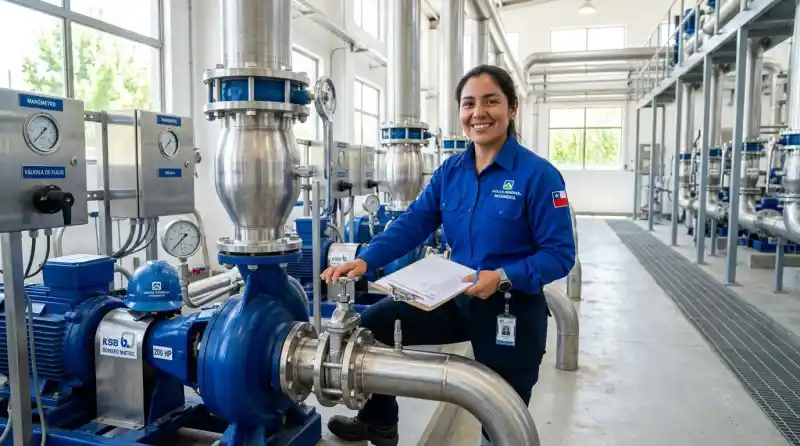
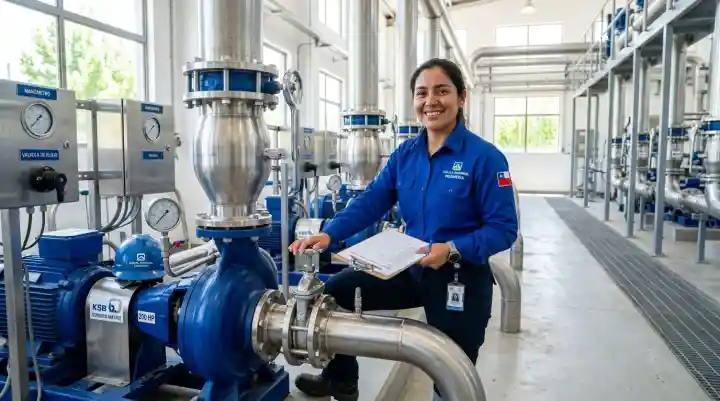
perf(pagespeed): strict picture elements with 5.5KB mobile hero image and ultra-lightweight alpine members dataset

diff --git a/resources/views/home.blade.php b/resources/views/home.blade.php
@@ -23,20 +23,22 @@
 <section class="relative overflow-hidden bg-slate-950 text-white pt-12 pb-20 lg:pt-20 lg:pb-28" x-data="secVerificationApp">
     
     <!-- Hero Background Image Slider Carousel (Vibrant, Clear & Human) -->
-    <div class="absolute inset-0 z-0 pointer-events-none" x-data="{ currentSlide: 0 }" x-init="setInterval(() => { currentSlide = (currentSlide + 1) % 3 }, 5000)">
-        <!-- Slide 1: Gas SEC Technician (LCP - Immediate Paint with Responsive srcset) -->
+    <div class="absolute inset-0 z-0 pointer-events-none" x-data="{ currentSlide: 0 }" x-init="setInterval(() => { currentSlide = (currentSlide + 1) % 3 }, 6000)">
+        <!-- Slide 1: Gas SEC Technician (LCP - Immediate Paint with Strict Picture) -->
         <div class="absolute inset-0 transition-opacity duration-1000 ease-in-out opacity-85 overflow-hidden"
              :class="{ 'opacity-85 scale-105': currentSlide === 0, 'opacity-0 scale-100': currentSlide !== 0 }"
              style="transition: opacity 1.5s ease-in-out, transform 8s ease-out;">
-            <img src="{{ asset('images/slider/hero_gas_mobile.webp') }}"
-                 srcset="{{ asset('images/slider/hero_gas_mobile.webp') }} 440w, {{ asset('images/slider/hero_gas.webp') }} 800w"
-                 sizes="(max-width: 640px) 100vw, 800px"
-                 alt="Profesionales Gas SEC Acreditados"
-                 fetchpriority="high"
-                 loading="eager"
-                 width="800"
-                 height="446"
-                 class="w-full h-full object-cover">
+            <picture>
+                <source media="(max-width: 640px)" srcset="{{ asset('images/slider/hero_gas_mobile.webp') }}">
+                <source media="(min-width: 641px)" srcset="{{ asset('images/slider/hero_gas.webp') }}">
+                <img src="{{ asset('images/slider/hero_gas_mobile.webp') }}"
+                     alt="Profesionales Gas SEC Acreditados"
+                     fetchpriority="high"
+                     loading="eager"
+                     width="720"
+                     height="401"
+                     class="w-full h-full object-cover">
+            </picture>
         </div>
 
         <!-- Slide 2: Agua & Sanitario Engineer (Deferred strictly until slide 2 triggers) -->
@@ -44,14 +46,16 @@
              :class="{ 'opacity-85 scale-105': currentSlide === 1, 'opacity-0 scale-100': currentSlide !== 1 }"
              style="transition: opacity 1.5s ease-in-out, transform 8s ease-out;">
             <template x-if="currentSlide === 1 || currentSlide === 2">
-                <img src="{{ asset('images/slider/hero_water_mobile.webp') }}"
-                     srcset="{{ asset('images/slider/hero_water_mobile.webp') }} 440w, {{ asset('images/slider/hero_water.webp') }} 800w"
-                     sizes="(max-width: 640px) 100vw, 800px"
-                     alt="Ingeniería y Servicios Sanitarios"
-                     loading="lazy"
-                     width="800"
-                     height="446"
-                     class="w-full h-full object-cover">
+                <picture>
+                    <source media="(max-width: 640px)" srcset="{{ asset('images/slider/hero_water_mobile.webp') }}">
+                    <source media="(min-width: 641px)" srcset="{{ asset('images/slider/hero_water.webp') }}">
+                    <img src="{{ asset('images/slider/hero_water_mobile.webp') }}"
+                         alt="Ingeniería y Servicios Sanitarios"
+                         loading="lazy"
+                         width="720"
+                         height="401"
+                         class="w-full h-full object-cover">
+                </picture>
             </template>
         </div>
 
@@ -60,14 +64,16 @@
              :class="{ 'opacity-85 scale-105': currentSlide === 2, 'opacity-0 scale-100': currentSlide !== 2 }"
              style="transition: opacity 1.5s ease-in-out, transform 8s ease-out;">
             <template x-if="currentSlide === 2">
-                <img src="{{ asset('images/slider/hero_solar_mobile.webp') }}"
-                     srcset="{{ asset('images/slider/hero_solar_mobile.webp') }} 440w, {{ asset('images/slider/hero_solar.webp') }} 800w"
-                     sizes="(max-width: 640px) 100vw, 800px"
-                     alt="Energías Renovables y Solar"
-                     loading="lazy"
-                     width="800"
-                     height="446"
-                     class="w-full h-full object-cover">
+                <picture>
+                    <source media="(max-width: 640px)" srcset="{{ asset('images/slider/hero_solar_mobile.webp') }}">
+                    <source media="(min-width: 641px)" srcset="{{ asset('images/slider/hero_solar.webp') }}">
+                    <img src="{{ asset('images/slider/hero_solar_mobile.webp') }}"
+                         alt="Energías Renovables y Solar"
+                         loading="lazy"
+                         width="720"
+                         height="401"
+                         class="w-full h-full object-cover">
+                </picture>
             </template>
         </div>
 
@@ -649,7 +655,7 @@
         Alpine.data('secVerificationApp', () => ({
             secQuery: '',
             verifiedMember: null,
-            members: @json($members),
+            members: @json($membersSearch ?? []),
             verifySec() {
                 const query = this.secQuery.trim().toLowerCase();
                 if (!query) {

diff --git a/app/Http/Controllers/HomeController.php b/app/Http/Controllers/HomeController.php
@@ -18,6 +18,19 @@ class HomeController extends Controller
             ->orderBy('id', 'asc')
             ->get();
 
+        $membersSearch = $members->map(fn($m) => [
+            'id' => $m->id,
+            'full_name' => $m->full_name,
+            'rut' => $m->rut,
+            'sec_licence' => $m->sec_licence,
+            'sec_class' => $m->sec_class,
+            'specialty' => $m->specialty,
+            'city' => $m->city,
+            'region' => $m->region,
+            'slug' => $m->slug,
+            'photo_url' => $m->photo_url
+        ]);
+
         $faqs = Faq::where('is_published', true)
             ->orderBy('order', 'asc')
             ->get();
@@ -106,6 +119,6 @@ class HomeController extends Controller
             })->toArray()
         ];
 
-        return view('home', compact('president', 'members', 'faqs', 'organizationSchema', 'faqSchema'));
+        return view('home', compact('president', 'members', 'membersSearch', 'faqs', 'organizationSchema', 'faqSchema'));
     }
 }
